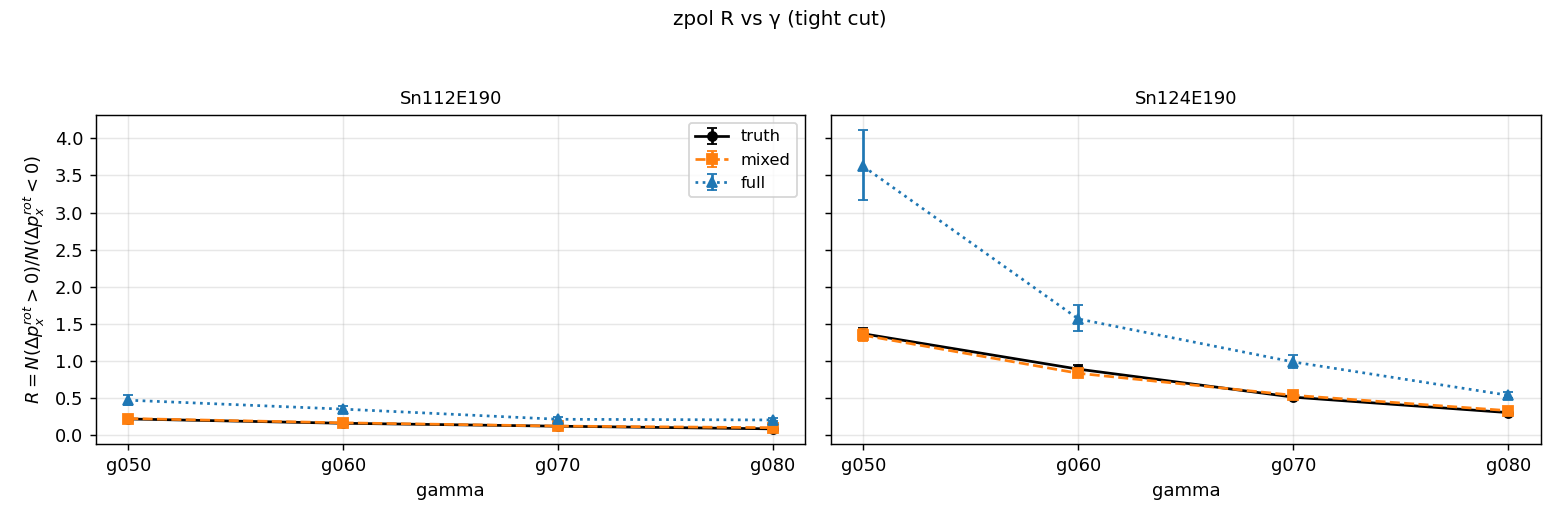
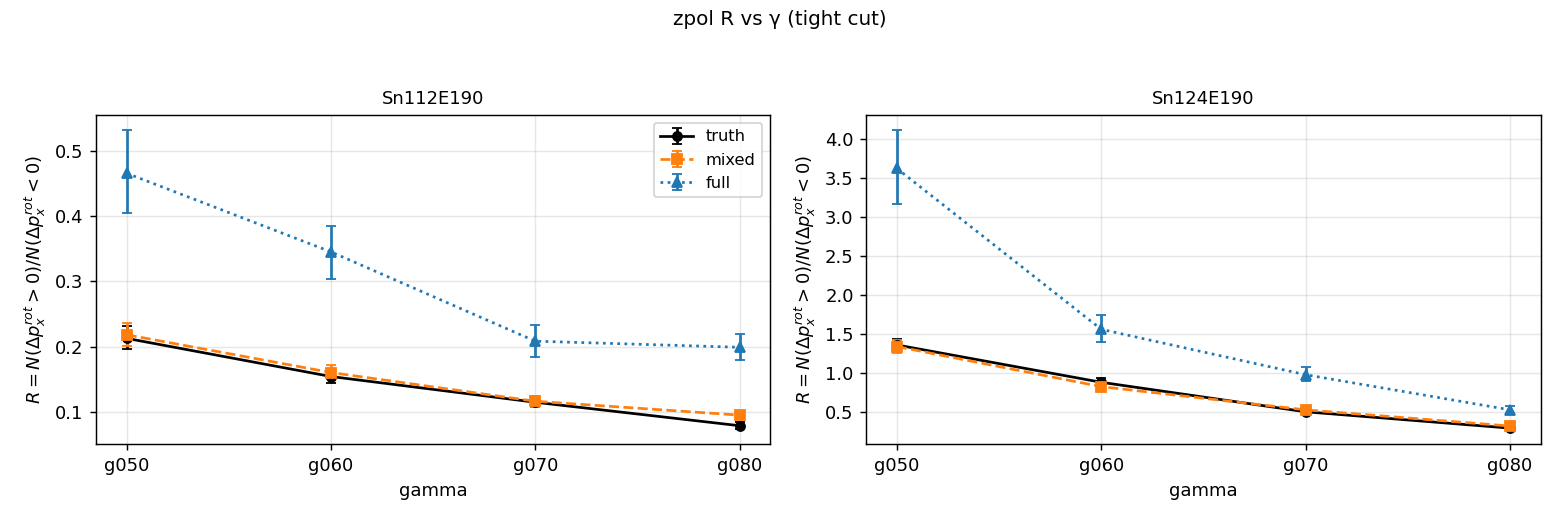
nn reports: widen residual plot ranges, add log y, drop sharey for zpol
A/B: elastic NN-vs-RK residual + 2D plots used ±30 linear and auto axes; that hid
the RK catastrophic-failure mode (1097 events with |Δpz|>300, max +2535 MeV/c).
Switch to ±500 with log y (residuals_grid, residuals_overlay) and fixed axes
±200/±100/[400,800] with LogNorm (reco_vs_truth_2d). The secondary RK bump near
−500 in pz / |p| now plots as the report text describes.

C: breakup r_vs_gamma forced sharey across both targets, but zpol Sn112 sits in
[0.05, 0.4] while Sn124 reaches 3.6 in tight cut, squashing Sn112 against the
bottom. Switch zpol to independent per-panel y-axes (ypol still shares since
both targets are similar magnitude there).

diff --git a/scripts/analysis/ypol_phys/analyze_nn_vs_rk_residuals.py b/scripts/analysis/ypol_phys/analyze_nn_vs_rk_residuals.py
@@ -1,0 +1,211 @@
+#!/usr/bin/env python3
+"""Compute and plot RK vs NN proton-momentum residuals on ypol elastic_allair.
+
+[EN] Reads per-cell CSVs produced by extract_proton_rk_nn.C, pools all 16 cells,
+restricts to truth_has_proton==1 events with valid RK and NN reco (status==0,
+non-zero p), then writes residual histograms and a JSON summary table.
+"""
+import argparse, json, os
+from pathlib import Path
+import numpy as np
+import pandas as pd
+import matplotlib
+matplotlib.use("Agg")
+import matplotlib.pyplot as plt
+
+COMP = ["px", "py", "pz"]
+
+
+def half_width(x):
+    if len(x) < 5:
+        return float("nan")
+    p84, p16 = np.percentile(x, [84.135, 15.865])
+    return 0.5 * (p84 - p16)
+
+
+def stats(arr):
+    arr = arr[np.isfinite(arr)]
+    if len(arr) == 0:
+        return {"n": 0}
+    return {
+        "n": int(len(arr)),
+        "median": float(np.median(arr)),
+        "mean": float(np.mean(arr)),
+        "rmse": float(np.sqrt(np.mean(arr ** 2))),
+        "half_width": float(half_width(arr)),
+        "p95_abs": float(np.percentile(np.abs(arr), 95)),
+    }
+
+
+def main():
+    ap = argparse.ArgumentParser()
+    ap.add_argument("--csv-dir", required=True)
+    ap.add_argument("--out-dir", required=True)
+    args = ap.parse_args()
+
+    csv_paths = sorted(Path(args.csv_dir).glob("*.csv"))
+    print(f"[analyze] reading {len(csv_paths)} CSVs from {args.csv_dir}")
+    dfs = [pd.read_csv(p) for p in csv_paths]
+    df = pd.concat(dfs, ignore_index=True)
+    print(f"[analyze] total rows = {len(df)}")
+
+    n_truth = int(df["truth_has_proton"].sum())
+    df_t = df[df["truth_has_proton"] == 1].copy()
+    rk_ok = (df_t["rk_status"] == 0) & ((df_t[["rk_pxp", "rk_pyp", "rk_pzp"]].abs().sum(axis=1)) > 0)
+    nn_ok = (df_t["nn_status"] == 0) & ((df_t[["nn_pxp", "nn_pyp", "nn_pzp"]].abs().sum(axis=1)) > 0)
+    df_t["rk_ok"] = rk_ok
+    df_t["nn_ok"] = nn_ok
+
+    print(f"[analyze] truth_has_proton={n_truth}, rk_ok={int(rk_ok.sum())}, nn_ok={int(nn_ok.sum())}")
+    print(f"[analyze] both_ok={int((rk_ok & nn_ok).sum())}")
+
+    # restrict to rows where BOTH have a valid reco -> apples-to-apples comparison
+    df_e = df_t[rk_ok & nn_ok].copy()
+
+    out = Path(args.out_dir)
+    out.mkdir(parents=True, exist_ok=True)
+
+    # residuals
+    res = {}
+    for method in ("rk", "nn"):
+        res[method] = {}
+        for c in COMP:
+            res[method][c] = (df_e[f"{method}_p{c[1]}p"] - df_e[f"truth_p{c[1]}p"]).values
+        # |p| residual
+        truth_p = np.linalg.norm(df_e[["truth_pxp", "truth_pyp", "truth_pzp"]].values, axis=1)
+        reco_p = np.linalg.norm(df_e[[f"{method}_pxp", f"{method}_pyp", f"{method}_pzp"]].values, axis=1)
+        res[method]["pmag"] = reco_p - truth_p
+
+    summary = {
+        "n_total": int(len(df)),
+        "n_truth_has_proton": n_truth,
+        "n_rk_ok": int(rk_ok.sum()),
+        "n_nn_ok": int(nn_ok.sum()),
+        "n_both_ok": int(len(df_e)),
+        "rk": {k: stats(v) for k, v in res["rk"].items()},
+        "nn": {k: stats(v) for k, v in res["nn"].items()},
+    }
+    with (out / "summary.json").open("w") as f:
+        json.dump(summary, f, indent=2)
+
+    # 2x4 grid: rows = method (RK, NN), cols = px/py/pz/|p|
+    # Wider range + log y so RK heavy tails (px RMSE 17, pz RMSE 46) become visible.
+    fig, axes = plt.subplots(2, 4, figsize=(16, 7), sharex="col")
+    method_titles = {"rk": "RK", "nn": "NN (formal_B115T3deg)"}
+    col_titles = [r"$\Delta p_x$", r"$\Delta p_y$", r"$\Delta p_z$", r"$\Delta |\vec p|$"]
+    keys = ["px", "py", "pz", "pmag"]
+    # Wide ranges + log y so the catastrophic RK failures are visible:
+    #  RK pz tail extends to +2535, |p| tail to +3750; 1097 events have |Δpz|>300
+    #  vs 26 for NN. Range ±500 catches the bulk of the RK tail population while
+    #  keeping per-bin width <10 MeV/c so the central peak stays resolved.
+    ranges = {"px": (-500, 500), "py": (-30, 30), "pz": (-500, 500), "pmag": (-500, 500)}
+    for r, m in enumerate(("rk", "nn")):
+        for c, k in enumerate(keys):
+            ax = axes[r, c]
+            data = res[m][k]
+            lo, hi = ranges[k]
+            ax.hist(data, bins=120, range=(lo, hi), histtype="step", color=("C0" if m == "rk" else "C3"), linewidth=1.5)
+            med = np.median(data)
+            hw = half_width(data)
+            ax.axvline(med, ls="--", color="k", lw=0.8)
+            ax.set_title(f"{method_titles[m]}: {col_titles[c]}\nN={len(data)}, med={med:+.2f}, hw={hw:.2f}", fontsize=10)
+            ax.set_xlim(lo, hi)
+            ax.set_yscale("log")
+            ax.set_ylim(bottom=0.5)
+            if r == 1:
+                ax.set_xlabel("reco - truth (MeV/c)")
+            if c == 0:
+                ax.set_ylabel("events (log)")
+            ax.grid(alpha=0.3, which="both")
+    fig.suptitle("Proton momentum residuals on ypol_new_20260413_elastic_allair (16 cells, 160k events, both reco OK)", fontsize=11)
+    fig.tight_layout(rect=[0, 0, 1, 0.96])
+    fig.savefig(out / "residuals_grid.png", dpi=130)
+    plt.close(fig)
+
+    # overlay 1x4: RK vs NN per component, log y, wide range — shows tail divergence
+    fig2, axes2 = plt.subplots(1, 4, figsize=(16, 4))
+    for c, k in enumerate(keys):
+        ax = axes2[c]
+        lo, hi = ranges[k]
+        ax.hist(res["rk"][k], bins=120, range=(lo, hi), histtype="step", color="C0", lw=1.6, label="RK")
+        ax.hist(res["nn"][k], bins=120, range=(lo, hi), histtype="step", color="C3", lw=1.6, label="NN")
+        ax.set_xlabel("reco - truth (MeV/c)")
+        ax.set_title(col_titles[c])
+        ax.set_xlim(lo, hi)
+        ax.set_yscale("log")
+        ax.set_ylim(bottom=0.5)
+        ax.grid(alpha=0.3, which="both")
+        if c == 0:
+            ax.legend()
+            ax.set_ylabel("events (log)")
+    fig2.suptitle("RK vs NN residual overlay (proton, 16 cells pooled, log y reveals RK tails)", fontsize=11)
+    fig2.tight_layout(rect=[0, 0, 1, 0.94])
+    fig2.savefig(out / "residuals_overlay.png", dpi=130)
+    plt.close(fig2)
+
+    # 2D scatter: reco vs truth for each component, both methods.
+    # Hardcoded per-column ranges so RK outliers don't compress the useful diagonal.
+    # log color scale for the 2D density (RK has long thin spike + few outliers).
+    from matplotlib.colors import LogNorm
+    fig3, axes3 = plt.subplots(2, 3, figsize=(13, 8))
+    truth_cols = ["truth_pxp", "truth_pyp", "truth_pzp"]
+    reco_cols_rk = ["rk_pxp", "rk_pyp", "rk_pzp"]
+    reco_cols_nn = ["nn_pxp", "nn_pyp", "nn_pzp"]
+    # px/py: ±200 / ±100; pz: 400-800 (truth pz median ~627).
+    axis_ranges = {"px": (-200, 200), "py": (-100, 100), "pz": (400, 800)}
+    for r, (label, rcols, color) in enumerate([("RK", reco_cols_rk, "C0"), ("NN", reco_cols_nn, "C3")]):
+        for c, comp in enumerate(COMP):
+            ax = axes3[r, c]
+            x = df_e[truth_cols[c]].values
+            y = df_e[rcols[c]].values
+            mask = np.isfinite(x) & np.isfinite(y)
+            xlo, xhi = axis_ranges[comp]
+            ylo, yhi = axis_ranges[comp]
+            ax.hist2d(x[mask], y[mask], bins=120, range=[[xlo, xhi], [ylo, yhi]],
+                      cmap="viridis", norm=LogNorm())
+            ax.plot([xlo, xhi], [xlo, xhi], 'r--', lw=1)
+            ax.set_xlim(xlo, xhi); ax.set_ylim(ylo, yhi)
+            ax.set_xlabel(f"truth {comp} (MeV/c)")
+            ax.set_ylabel(f"{label} reco {comp} (MeV/c)")
+            ax.set_title(f"{label}: {comp}")
+    fig3.suptitle("reco vs truth 2D, proton (16 cells pooled, fixed axes; RK outliers clipped)", fontsize=11)
+    fig3.tight_layout(rect=[0, 0, 1, 0.95])
+    fig3.savefig(out / "reco_vs_truth_2d.png", dpi=130)
+    plt.close(fig3)
+
+    # per-cell summary for table
+    cell_rows = []
+    for tag, sub in df_e.groupby("tag"):
+        for method in ("rk", "nn"):
+            row = {"tag": tag, "method": method, "n": len(sub)}
+            for c in COMP:
+                d = (sub[f"{method}_p{c[1]}p"] - sub[f"truth_p{c[1]}p"]).values
+                row[f"{c}_med"] = float(np.median(d))
+                row[f"{c}_hw"] = half_width(d)
+            cell_rows.append(row)
+    pd.DataFrame(cell_rows).to_csv(out / "per_cell_summary.csv", index=False)
+
+    # human-readable summary
+    lines = []
+    lines.append(f"# Proton residual summary (ypol elastic_allair, 16 cells)")
+    lines.append(f"total events read: {summary['n_total']}")
+    lines.append(f"truth_has_proton:  {n_truth}")
+    lines.append(f"RK ok / NN ok / both ok: {summary['n_rk_ok']} / {summary['n_nn_ok']} / {summary['n_both_ok']}")
+    lines.append("")
+    lines.append("RK residuals (apples-to-apples on both-ok subset):")
+    for k in keys:
+        s = summary["rk"][k]
+        lines.append(f"  {k:5s}: med={s['median']:+.3f}  hw={s['half_width']:.3f}  rmse={s['rmse']:.3f}  p95|.|={s['p95_abs']:.3f}")
+    lines.append("")
+    lines.append("NN residuals (same subset):")
+    for k in keys:
+        s = summary["nn"][k]
+        lines.append(f"  {k:5s}: med={s['median']:+.3f}  hw={s['half_width']:.3f}  rmse={s['rmse']:.3f}  p95|.|={s['p95_abs']:.3f}")
+    txt = "\n".join(lines)
+    print(txt)
+    (out / "summary.txt").write_text(txt + "\n")
+    print(f"[analyze] wrote -> {out}")
+
+
+if __name__ == "__main__":
+    main()

diff --git a/scripts/analysis/nn_breakup_phys/04_make_figures.py b/scripts/analysis/nn_breakup_phys/04_make_figures.py
@@ -89,8 +89,12 @@ def plot_px_diff_hist(df, cut, out_path, pol_label):
     fig.savefig(out_path, dpi=130); plt.close(fig)
 
 def plot_r_vs_gamma(r_df, cut, out_path, pol_label):
+    # ypol: Sn112 and Sn124 R values are similar magnitude → sharey aids comparison.
+    # zpol: Sn112 stays in [0.05, 0.4] while Sn124 reaches 3.6 → forcing sharey
+    # squashes Sn112 against the bottom. Use independent y-axes for zpol.
+    share = "all" if pol_label.startswith("ypol") else False
     targets = sorted(r_df.target.unique())
-    fig, axes = plt.subplots(1, len(targets), figsize=(6*len(targets), 4), sharey=True)
+    fig, axes = plt.subplots(1, len(targets), figsize=(6*len(targets), 4), sharey=share)
     if len(targets) == 1: axes = [axes]
     for i, tgt in enumerate(targets):
         ax = axes[i]
@@ -105,8 +109,9 @@ def plot_r_vs_gamma(r_df, cut, out_path, pol_label):
             ax.errorbar(v.gamma, v.R, yerr=[yerr_lo, yerr_hi], color=color, marker=marker, ls=ls, label=variant, lw=1.5, ms=5, capsize=3)
         ax.set_title(f"{tgt}", fontsize=10)
         ax.set_xlabel("gamma"); ax.grid(alpha=0.3)
-        if i == 0:
+        if i == 0 or not share:
             ax.set_ylabel(r"$R = N(\Delta p_x^{rot}>0)/N(\Delta p_x^{rot}<0)$")
+        if i == 0:
             ax.legend(fontsize=9)
     fig.suptitle(f"{pol_label} R vs γ ({cut} cut)", fontsize=11)
     fig.tight_layout(rect=[0, 0, 1, 0.94])